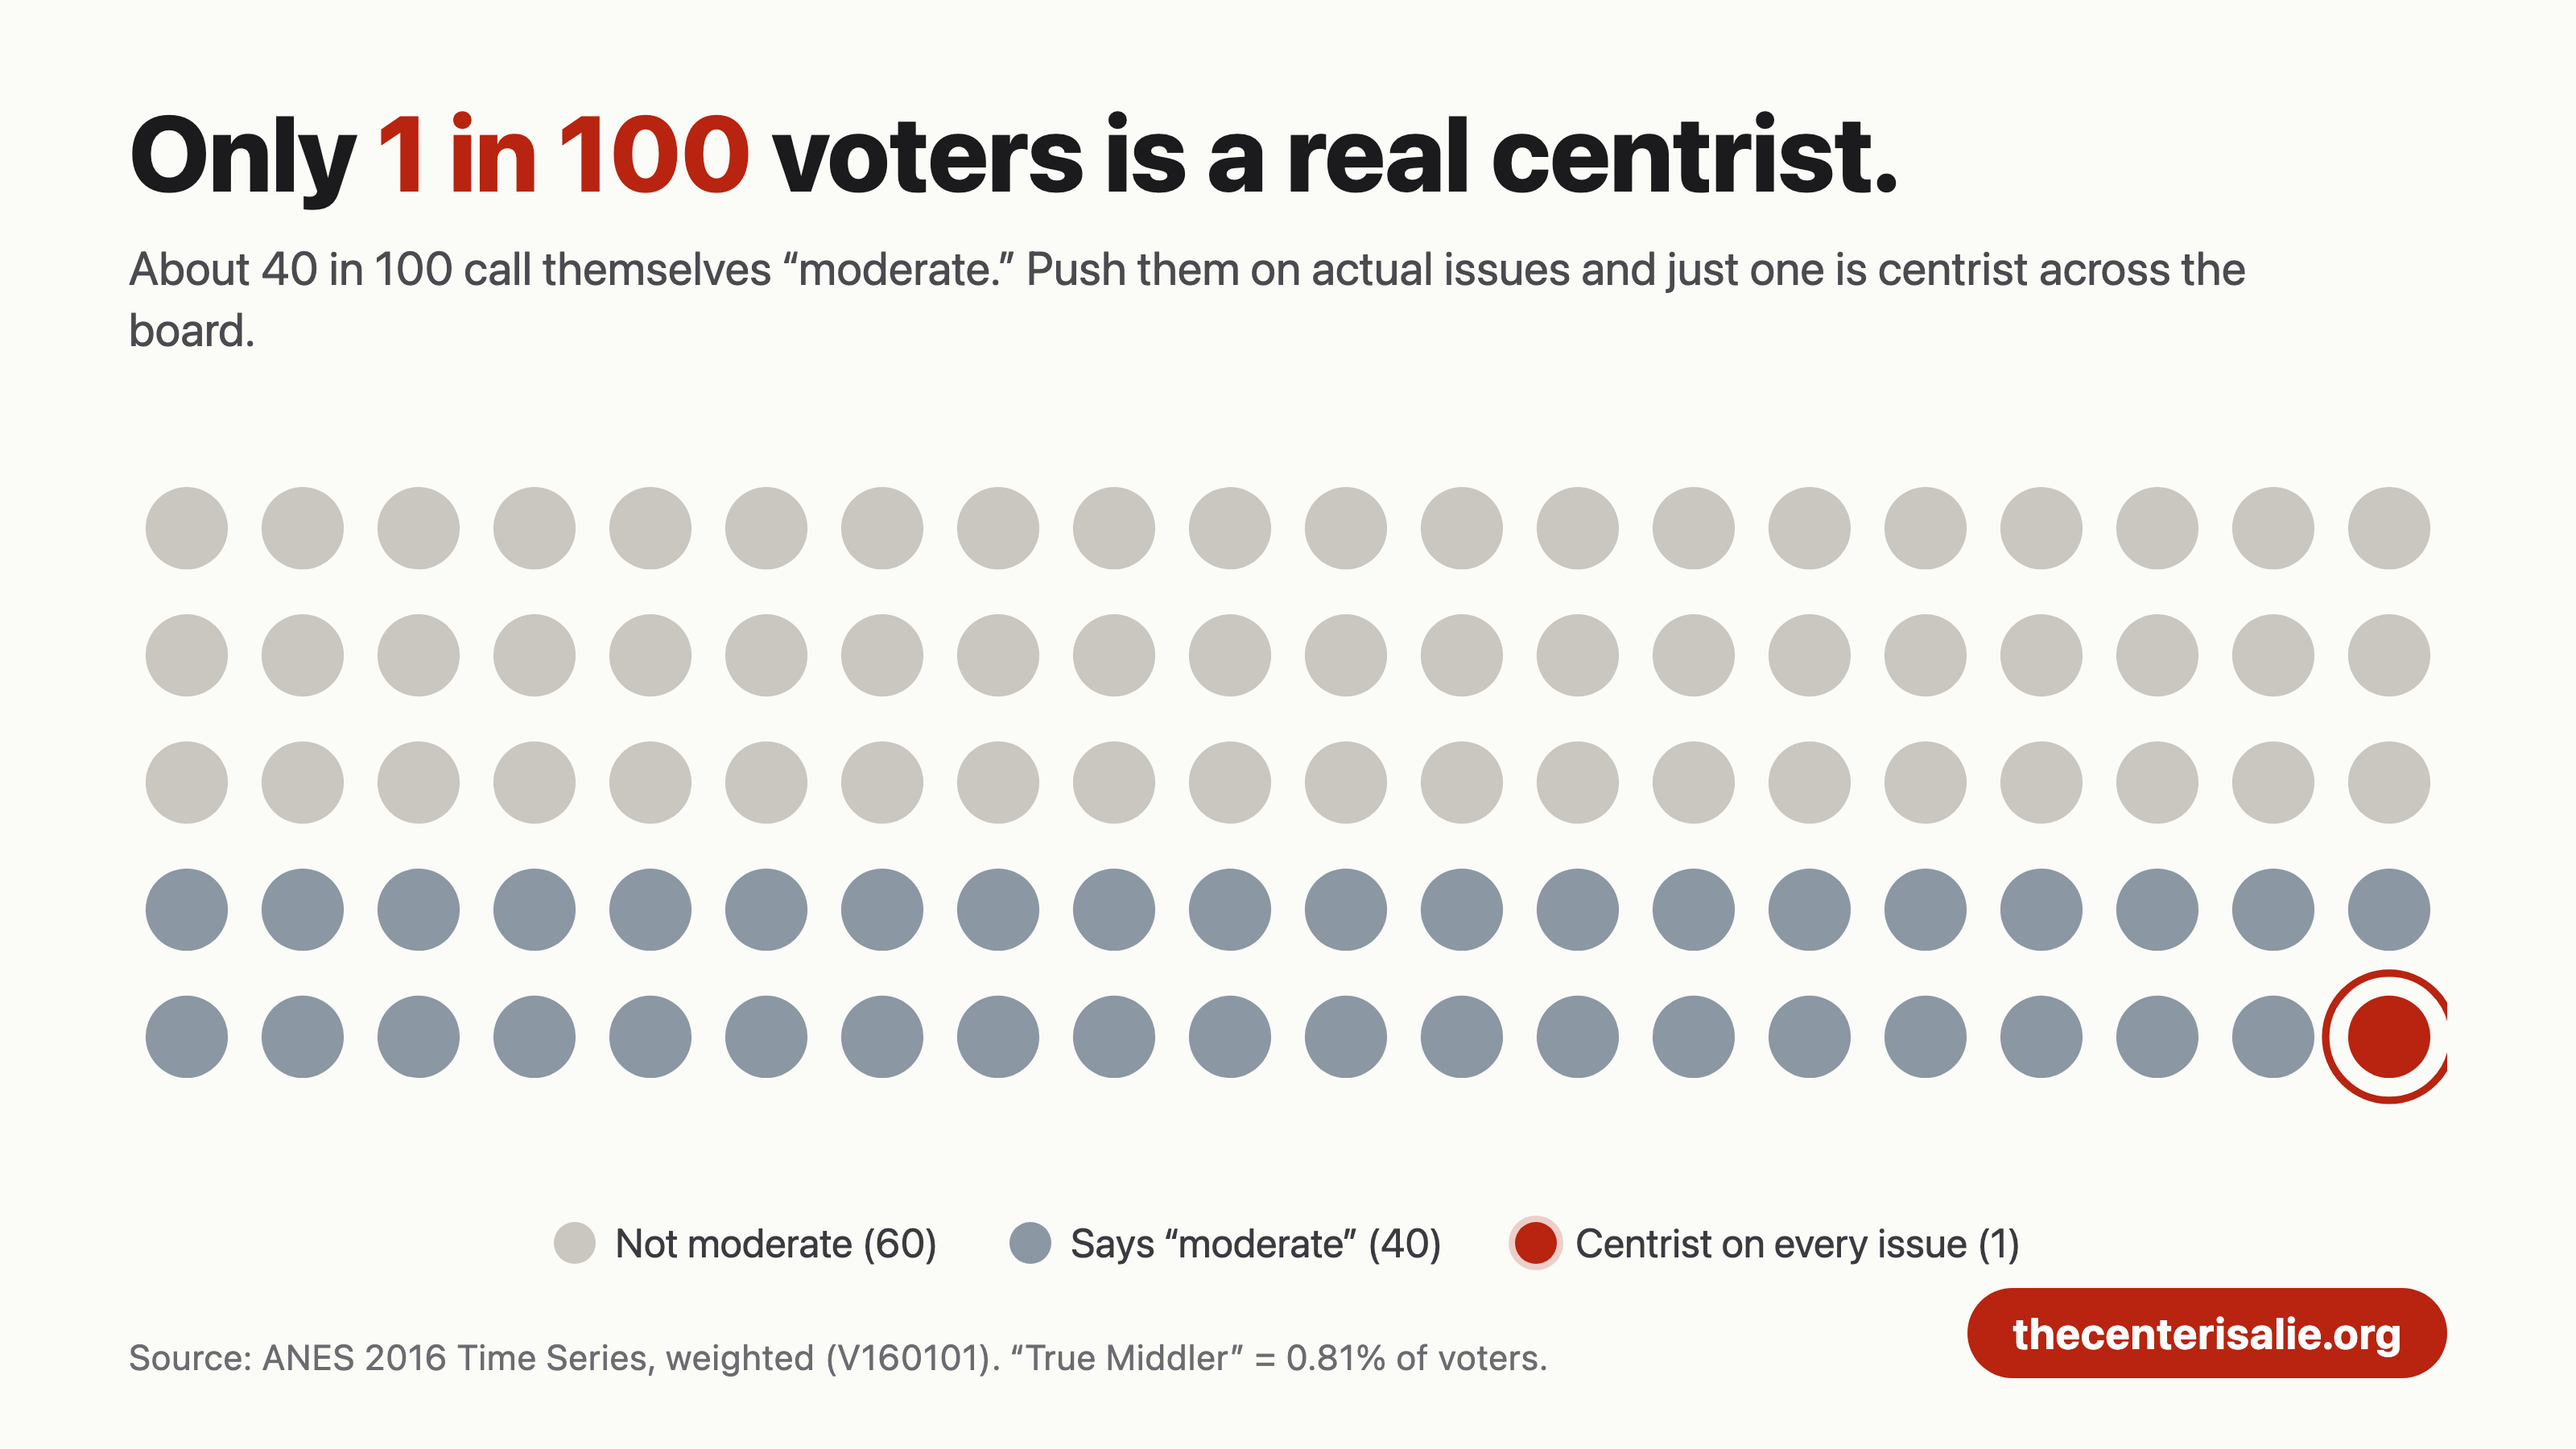
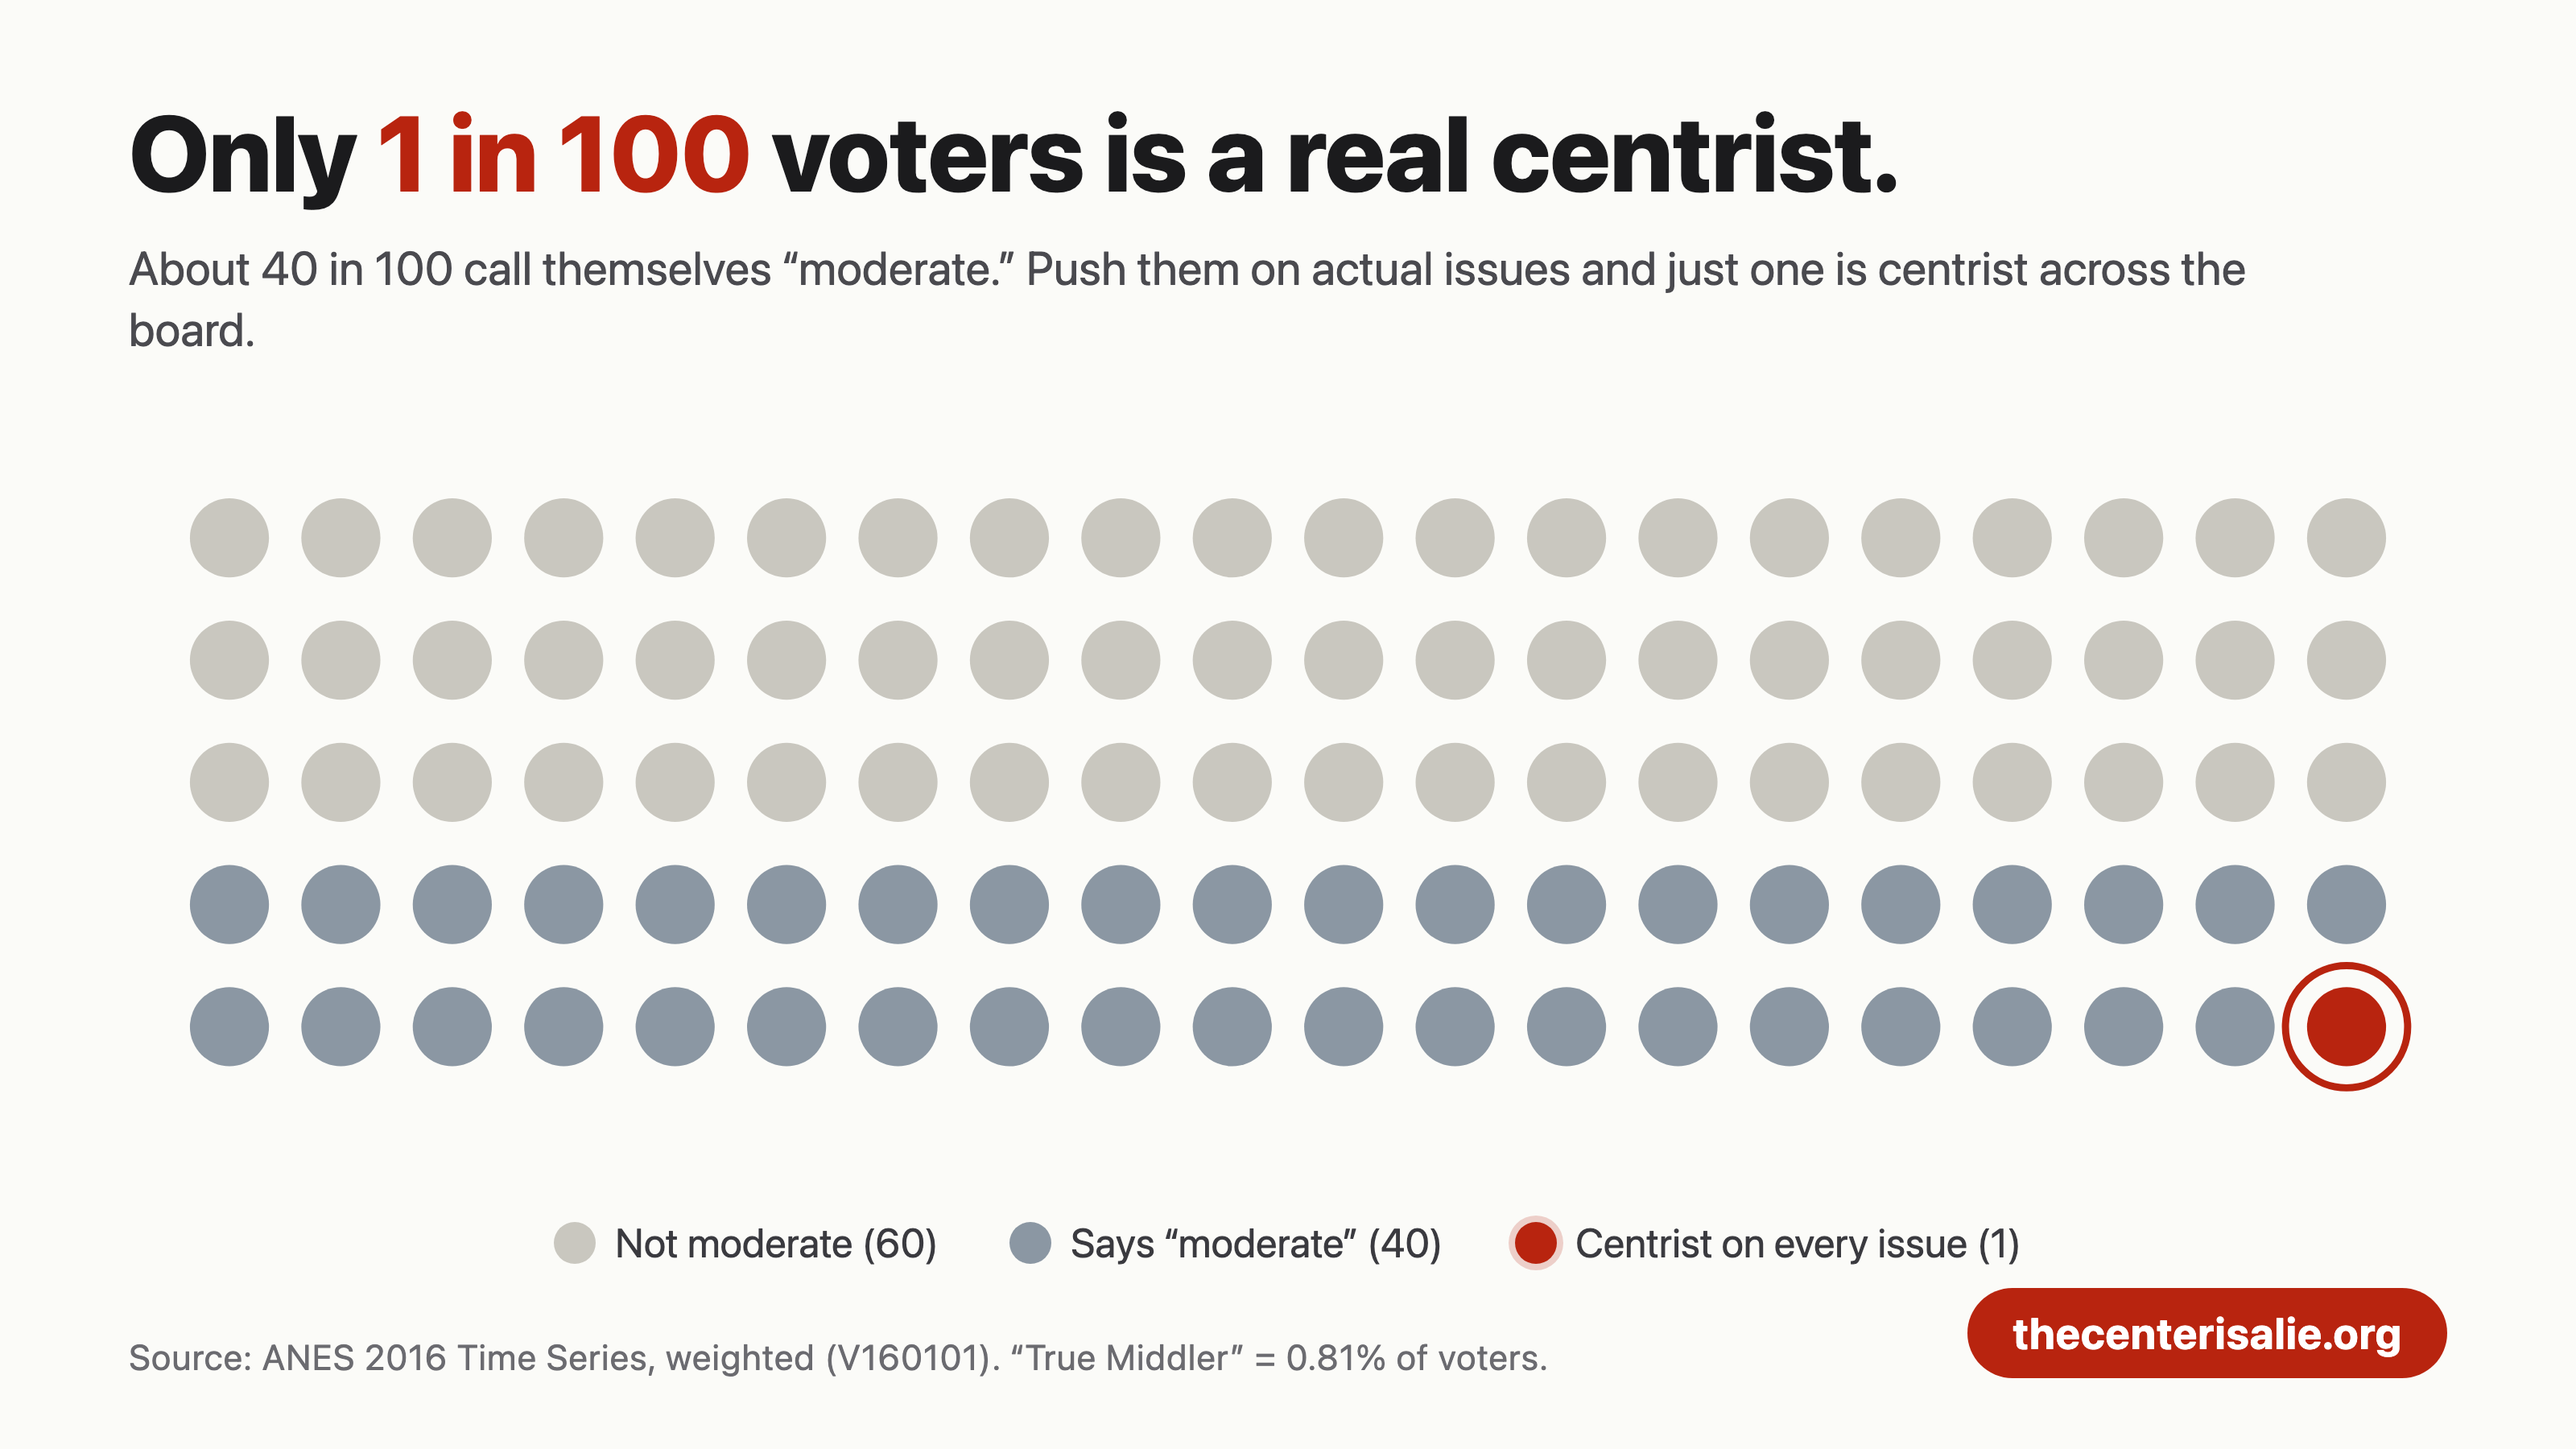
fix(og): widen 1in100 viewBox so the True Middler ring isn't clipped

Changed region(s): [[0.0312, 0.3422, 0.9688, 0.7778]]

diff --git a/web/og-cards/chart-1in100.html b/web/og-cards/chart-1in100.html
@@ -6,7 +6,7 @@
     <div class="cc-sub">About 40 in 100 call themselves &ldquo;moderate.&rdquo; Push them on actual
       issues and just one is centrist across the board.</div>
 
-    <div class="cc-chart"><svg id="waffle" viewBox="0 0 1240 360" role="img"
+    <div class="cc-chart"><svg id="waffle" viewBox="0 0 1290 360" role="img"
       aria-label="Waffle of 100 dots: 60 non-moderate, 39 self-described moderate, 1 true centrist circled"></svg></div>
 
     <div class="cc-legend">
@@ -28,7 +28,7 @@
     //   99    True Middler (red, ringed) last dot, bottom-right
     const svg = document.getElementById('waffle');
     const COLS = 20, ROWS = 5, r = 22, sx = 62, sy = 68;
-    const x0 = (1240 - (COLS - 1) * sx) / 2, y0 = (360 - (ROWS - 1) * sy) / 2;
+    const x0 = (1290 - (COLS - 1) * sx) / 2, y0 = (360 - (ROWS - 1) * sy) / 2;
     const NS = 'http://www.w3.org/2000/svg';
     for (let i = 0; i < 100; i++) {
       const col = i % COLS, row = (i / COLS) | 0;
